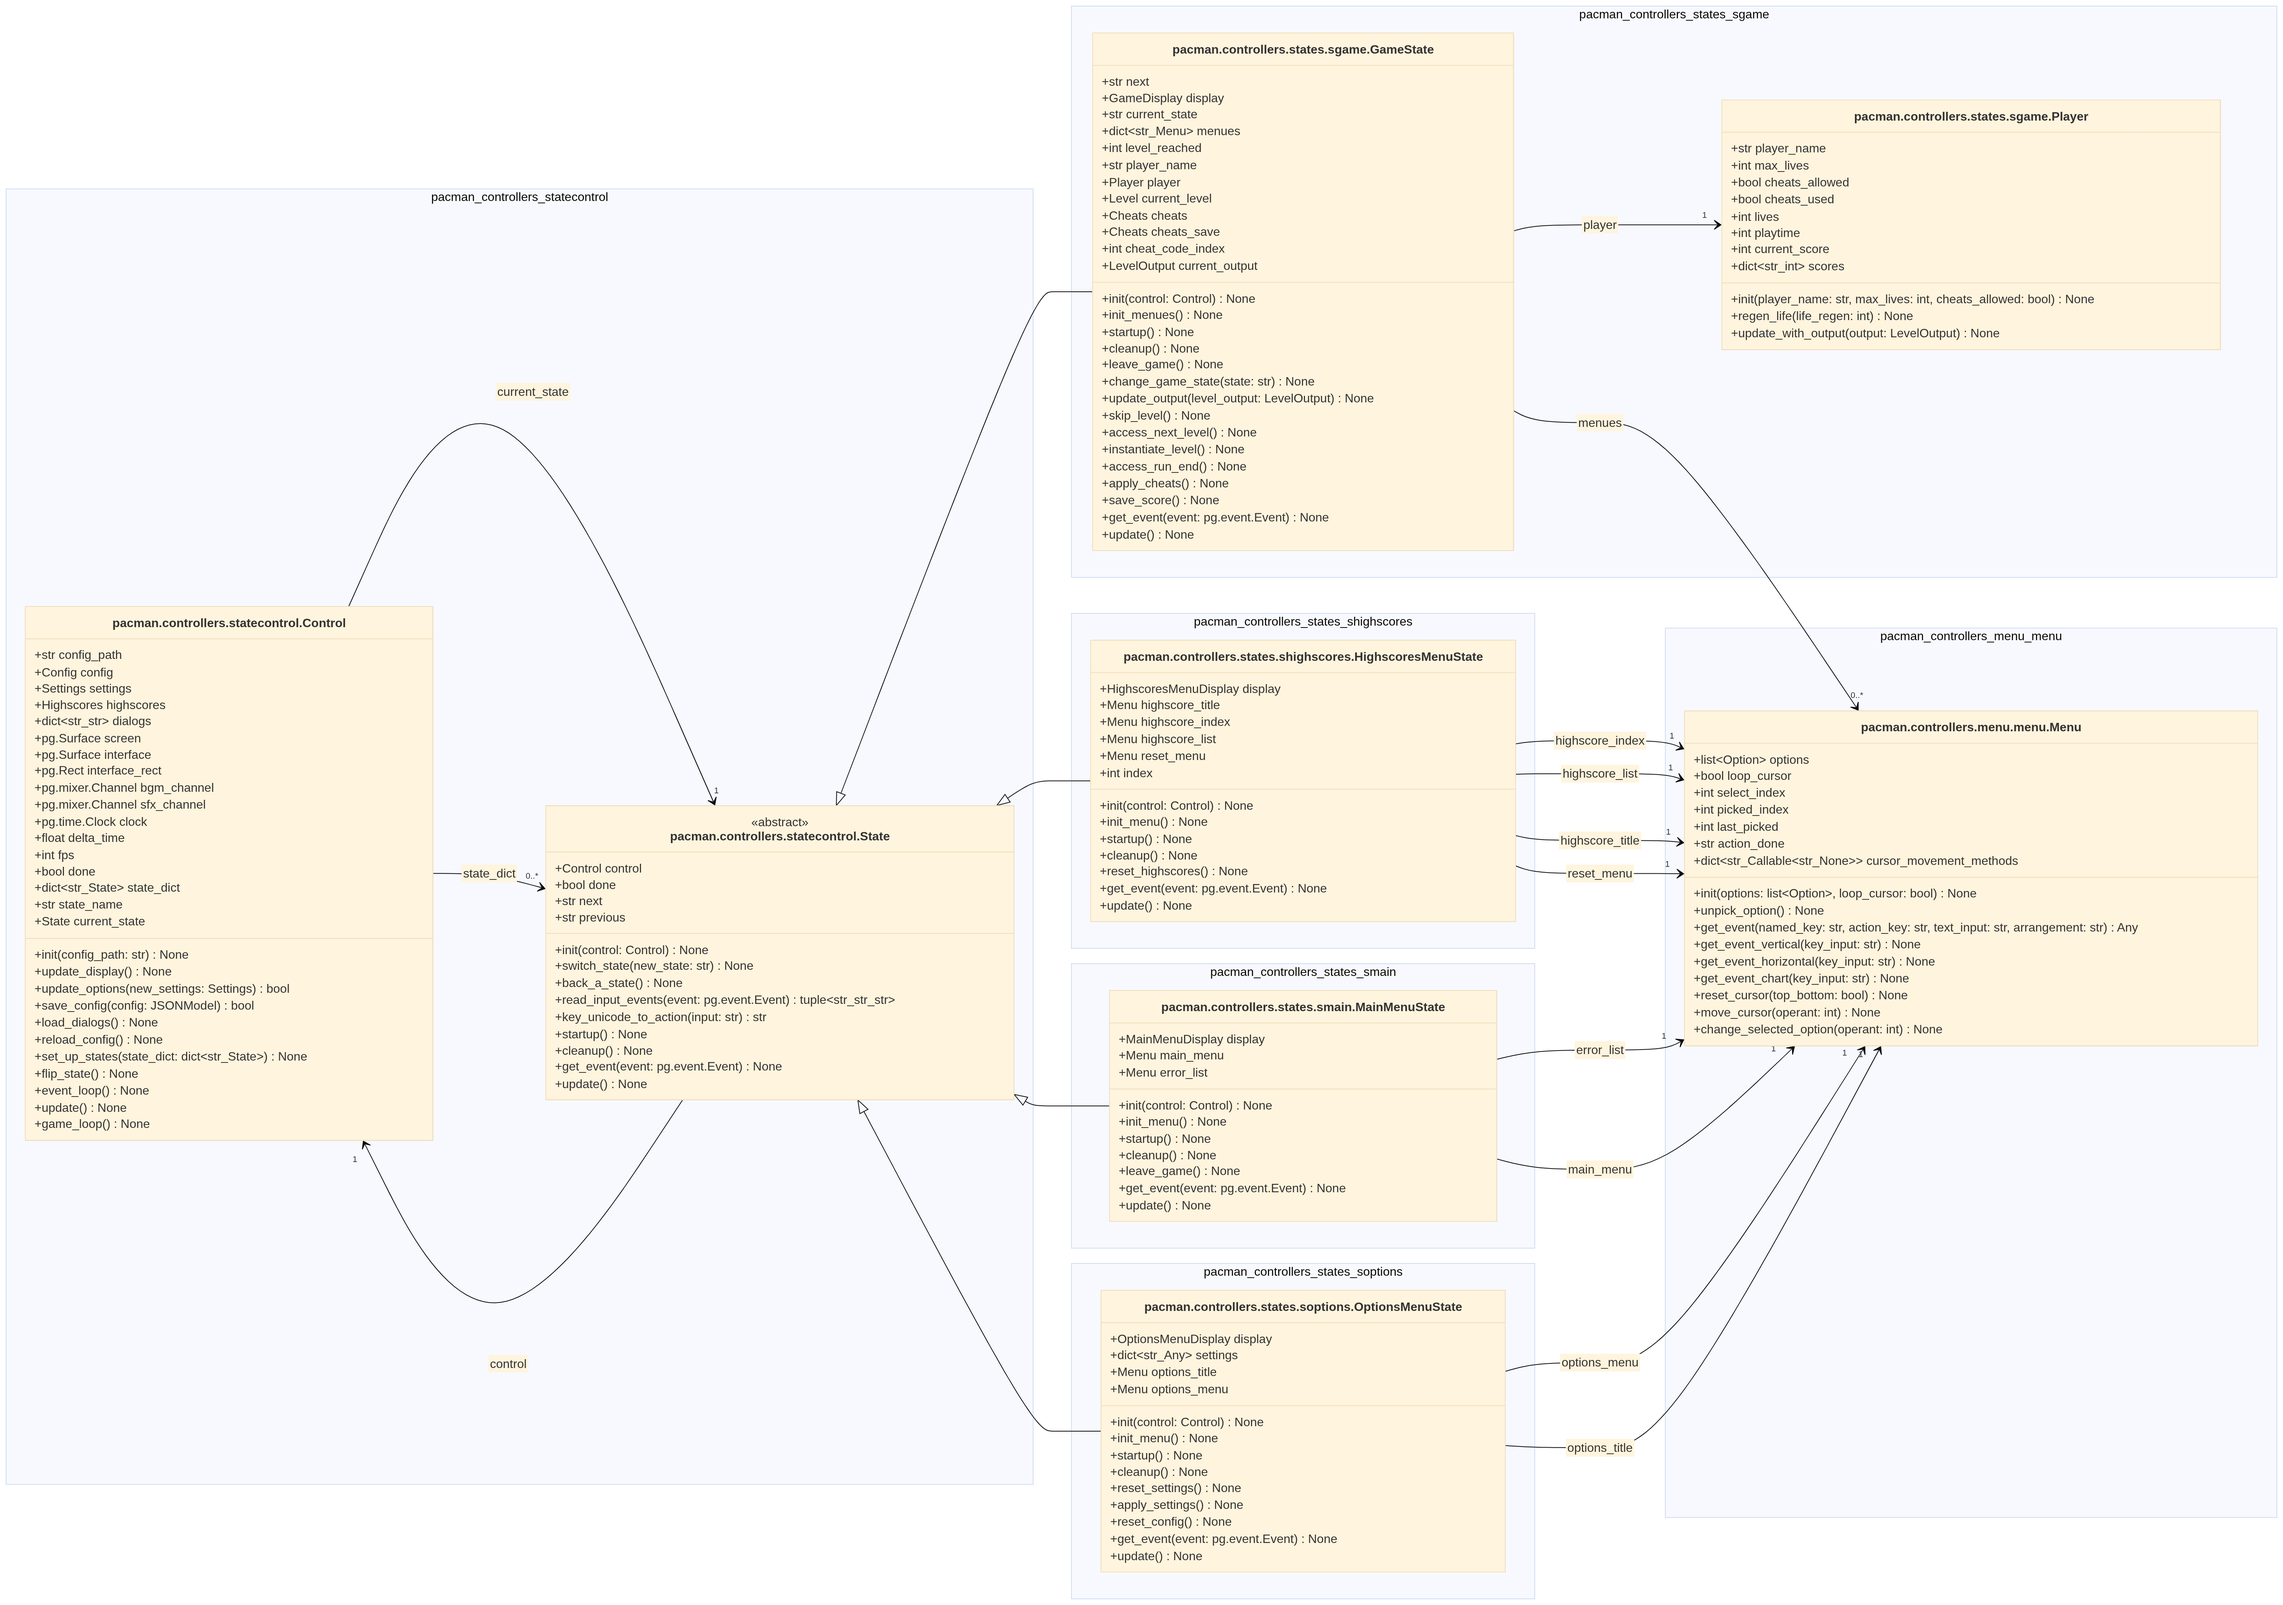
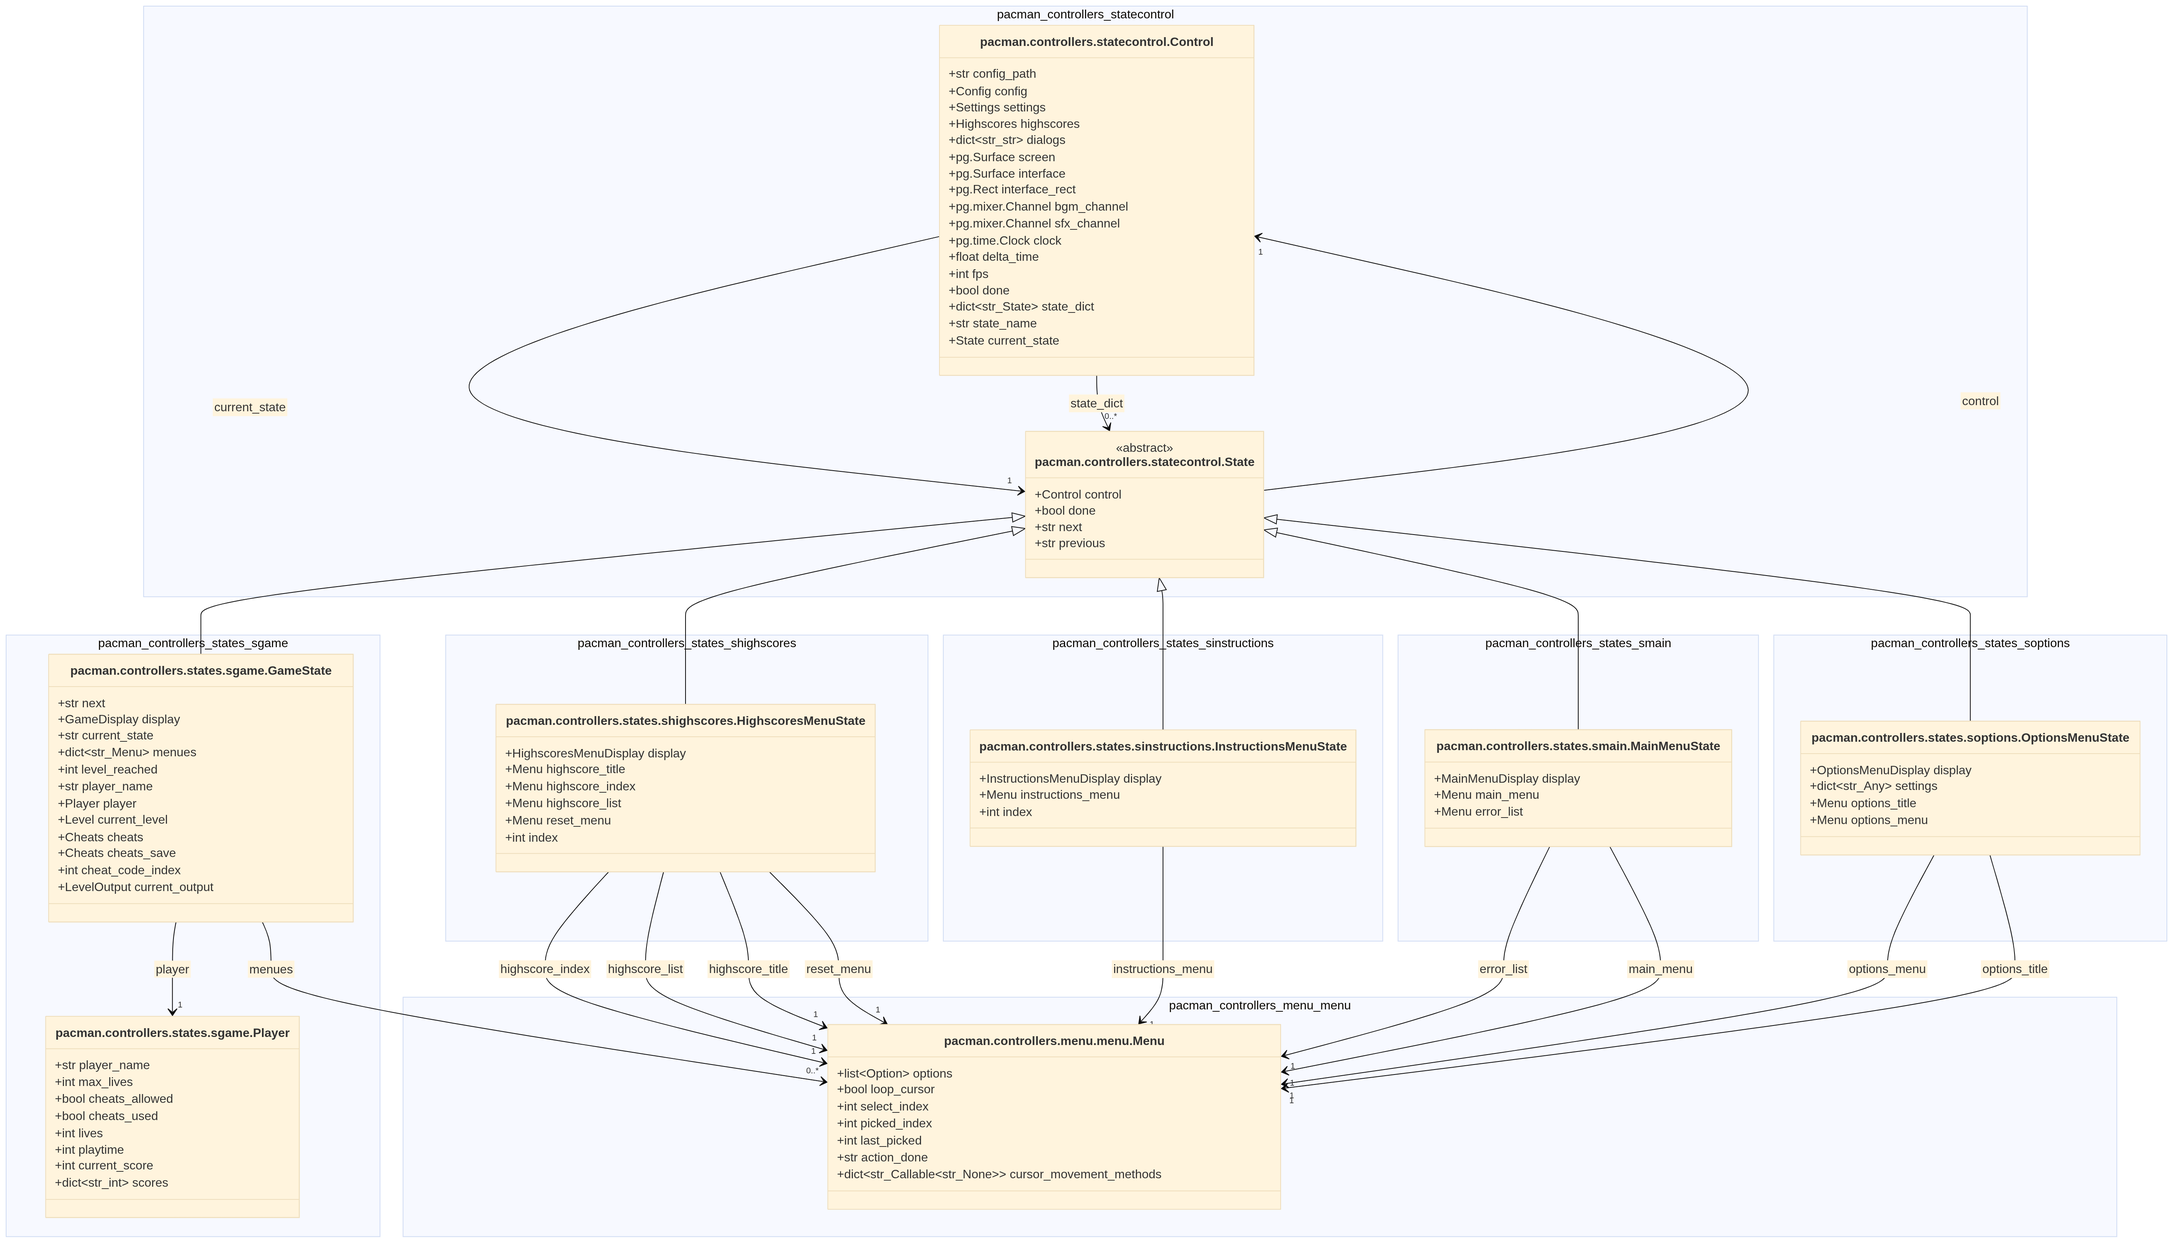
docs[readme]: add features and credits sections to readme, fix error messages on main menu to be readable on background
add multiple screenshots for the itchio page

diff --git a/pacman/views/display/dmain.py b/pacman/views/display/dmain.py
@@ -76,10 +76,10 @@ class MainMenuDisplay(Display):
         graphic: pg.Surface = new_surface(
             (int(screen_h * 0.5), int(screen_h * 0.013)))
         g_rect: pg.Rect = graphic.get_rect()
-        pg.draw.rect(graphic, pg.Color(15, 15, 15, 40), g_rect,
+        pg.draw.rect(graphic, pg.Color(15, 15, 15, 150), g_rect,
                      int(screen_h * 0.05))
         return PlaceHolder([
-            Style(pg.Color(0, 0, 0),
+            Style(pg.Color(255, 255, 255),
                   pg.font.Font(self.font_path, int(screen_h * 0.012)),
                   graphic, pg.Rect(g_rect.width * 0.05, g_rect.height * 0.05,
                                    g_rect.width * 0.95, g_rect.height * 0.95),

diff --git a/README.md b/README.md
@@ -26,16 +26,39 @@ This project allowed us to greatly improve the following skills:
 
 ## Features
 
+![](docs/itch.io/game-instructions.png)
+
+Collect all the coins scattered in each level to progress to the next, but beware of the skeletons risen from the dead !
+
+Taken by surprise, you dropped your weapon. But all hope is not lost ! Gain extra points by picking up knives lost by those more unfortunate than you, and by vanquishing your enemies !
+
 ### Customizable levels
+
+10 levels are available by default, with the first alone remaining the same every run. However, the game is bundled with a configuration file that you can modify and which you can find a breakdown of just [below](#Configuration), to create endless possibilities for your adventure !
 
 ### Languages and Keybinds support
 
+The game comes right now with english and french support, but is made to be expandable ! All dialogs in addtional languages can come from a new json file in the dedicated assets folder.
+
+On that matter, the game's resolution, sound volumes and keybinds can also all be configurable in and out of game ! This is done using the settings.json file, or the settings menu.
+
+### Highscores
+
+Celebrate your run by saving its statistics next to your name ! Up to ten highscores can be saved at a time, so keep steady to stay on the board !
+
 ### Cheats
 
-### Highscore
+Feeling stuck, or eager to experiment ? Cheats are included ! Test out levels and the skeleton's limits with invincibility, super speed or infinite timer. Note however that you won't be able to save your score this way.
+
+To access the dedicated menu during a level, enter the Konami code using your set keybinds:
+
+|||||||||||
+|-|-|-|-|-|-|-|-|-|-|
+| Up | Up | Down | Down | Left | Right | Left | Right | Confirm | Return |
 
 ## Instructions / Installation
-To use this project, you can download its zip file from github, or by running this command in a terminal located in the chosen destination:
+
+To use this project, you can download it from its zip file from github, or by running this command in a terminal located in the chosen destination:
 
 ```bash
 git clone https://github.com/jolyne-mangeot/Pac-man
@@ -56,13 +79,13 @@ This project contains a Makefile, a file that is used to pre-enter commands to r
 
 | Rules | Action |
 |---|---|
-| run | run the pacman file with arguments, ensuring everything is installed |
+| run | run the pacman file with preset arguments, ensuring everything is installed |
 | skip-install | when dependencies are installed, run the pacman file without checking dependencies |
-| debug | run the pacman file with arguments through pdb |
+| debug | run the pacman file with preset arguments through pdb |
 | install | create a virtual environment and install dependencies |
 | clean | remove mypy cache, python cache, build files and output_file |
 | fclean | run clean and remove the virtual environment |
-| lint | run flake8 and mypy with flexible rules |
+| lint | run flake8 and mypy with flexible rules (code styling and typing) |
 | lint-strict | run flake8 and mypy with strict rules |
 
 To run any, enter 'make' followed by the selected rule in a terminal located at the project's root folder, like so:
@@ -74,8 +97,15 @@ make install
 Executing `make` alone is an equivalent to `make run`.
 
 ### Configuration
-The config file uses JSON. This JSON file handles comments. Lines starting with # or // are comments and are ignored.
 
+This programs runs using a configuration file situated in the pacman folder, named `config.json`. Its path must be indicated when running the game, and it's then parsed. This parsing shows multiple caracteristics:
+- The `config.json` file supports comments, which are lines starting with `#` or `//`.
+- Missing values are replaced with a default one, sometimes randomized to fit gameplay replayability.
+- Faulty values are also replaced or randomized.
+
+Any inaccessible files either for retrieving data or saving a highscore will display an error message in relevant areas (main menu or score saving screen).
+
+For a full breakdown of the configuration file and how to customize levels, [see here](docs/ConfigurationFile.md).
 
 ## General sofware architecture
 We used a MVC architecture which is a fundamental design pattern that helps us organize code by separating the project into three interconnected components : Model - View - Controller. These three distinct layers work together to create well-structured applications. 
@@ -83,15 +113,23 @@ We used a MVC architecture which is a fundamental design pattern that helps us o
 <img src="https://www.crio.do/blog/content/images/2021/07/Components-of-MVC-Architecture-Pattern.png" alt="" align="right" width="520"/>
 
 ### Controller
-Description de ce qu'il y a dans controller
+"Controllers" are the carrier of the user's inputs to the models, and initiators of the display by the viewers. Here are the modules our program relies on:
+- [Control Class](#Architecture-2): head of the program, responsible to cycle through the States and reference models needed in multiple places.
+- [States Class family](#Architecture-2): Each state correspond to an independant phase the game can be in, with its own parsing of inputs and data updates, to help divide responsibilities and keep clean a growing game with multiple menues.
+- [Menu module](docs/Menu-Options.md): offers the user various ways of manipulating values in real-time. Contains a list of Options models that it manipulates using the user's inputs.
 
 ### Model
-The “models” module contains all of the game's logic and state, independent of the display (View) and input handling/game loop (Controller). It is divided into several submodules:
-- [Entity module](#Entity)
-- [MazeMap module](#MazeMap)
+The "models" module contains all of the game's logic and data, independent of the display (View) and input handling/game loop (Controller). It is divided into several submodules:
+- [Entity module](#Entity): contains the logic of movement and variables for all entities.
+- [MazeMap module](#MazeMap): Contains an interface to the given maze generator that it takes data from to serialize for the GameState to use along the entities.
+- Level module: Heart of the game in itself, pulling data from the JSONModels and keeping the Entities and the MazeMap objects updated.
+- [JSONS module](docs/JSONModels.md): BaseModel classes handling the parsing of configuration files, replacing every faulty or missing value with a default one.
+- [Menu - Options module](docs/Menu-Options.md): Options class family of the Menu module, taking in simple actions to perform in the purpose of manipulating back-end variables.
 
 ### View
-Description de ce qu'il y a dans view
+The "views" modules effectively handle all visual depiction of the models' data, either it be backgrounds, menues or interfaces.
+- [State - Display module](#Display): These classes each are dedicated to the rendering of a single State, dividing even more responsibilities. The `dgame.py` file contains the LevelDisplay class, scaling and displaying everything related to a running level.
+- [Menu - Render module](docs/Menu-Options.md): The MenuRender, PlaceHolder and Style classes are utility helping the display of text, buttons and entire menues, tying together to try and optimize thse operations.
 
 ## Maze-generator
 Unfortunately, the scope of this project did not allow us to use the maze generator we had created for the `Amazing` project. We had to use a pre-built generator. It was provided as a `.whl` file. So we simply ran `pip install` in our virtual environment to make it available in our Python library, and then imported it into the `utils.py` file in our `pacman/models/mazemap/` module.
@@ -165,7 +203,15 @@ both `find_intersect()` and `Strategy.find_path()`.
 #### Architecture
 Pygame being the game's "engine", it had to be implemented in most of our modules and architecture choices. The library is imported in all controllers, many models and all views modules, used to receive the player's output as well as display everything on a graphical interface.
 
-For inputs and menu management, State classes were created in the controllers/states module to divide our program into standalone pages, such as the main menu, the options menu and the game itself. Managed by the [Control class](pacman/controllers/statecontrol.py) and depending on the user's inputs, these states are activated and deactivated, enabling an easier memory management and how the game progresses.
+##### Control and States
+
+[See the detailed class diagram for this module](docs/img/controllers-diagram.png)
+
+For inputs and menu management, State classes were created in the controllers/states module to divide our program into standalone pages, such as the main menu, the options menu and the game itself. Managed by the [Control class](pacman/controllers/statecontrol.py) and depending on the user's inputs, these states are activated and deactivated, enabling an easier memory management and how the game progresses. This structure was inspired by this [thread on the python forum by metulburr](https://python-forum.io/thread-336-post-103792.html#pid103792)
+
+##### Display
+
+[See the detailed class diagram for this module](docs/img/statesdisplay-diagram.png)
 
 And for displaying, the views/menu module helps rendering option menues described in this [documentation file](docs/Menu-Options.md), while the Display subclasses, each dedicated to their own state, also have the unique responsibility of rendering assets and variables.
 
@@ -181,10 +227,11 @@ Pygame was the main reason we opted for a MVC pattern. With numerous modules, th
 
 To facilitate the implementation of this project, we took the time to go through a conception phase. We used the Obsidian software to centralize our documentation and organize the tasks to be completed. We made a list of the prerequisites for the project so we wouldn't forget anything.
 
-
 ![](docs/img/project-kanban.png)
 
 The next step was to think about how to organize the project using the MVC architecture. We considered the various submodules needed and assigned them to the model, controller, or view components of the project. The goal was to optimize the dependencies and communication between these different submodules so that the architecture would be clear and well-organized.
+
+Various of the modules we eventually coded are documented in the docs folder.
 
 ### Timeline
 
@@ -232,6 +279,17 @@ The next step was to think about how to organize the project using the MVC archi
 
 > [!NOTE]
 > No AI was used in the making of this project.
+
+### Credits
+
+Apart fom the game's logo, all assets come from OpenGameArt, by diverse artists. Some were used as is, and other modified. You can find details on how each asset was assembled in this [credits file](pacman/assets/credits.md), and here is a quick list of all artists:
+- https://opengameart.org/users/buch
+- https://opengameart.org/users/zaphgames
+- https://opengameart.org/users/emcee-flesher
+- https://opengameart.org/users/craftpixnet-2d-game-assets
+- https://opengameart.org/users/trulio
+- https://opengameart.org/users/ansimuz
+- https://opengameart.org/users/killamaaki
 
 ### Parsing
 JSON parsing with comment:
